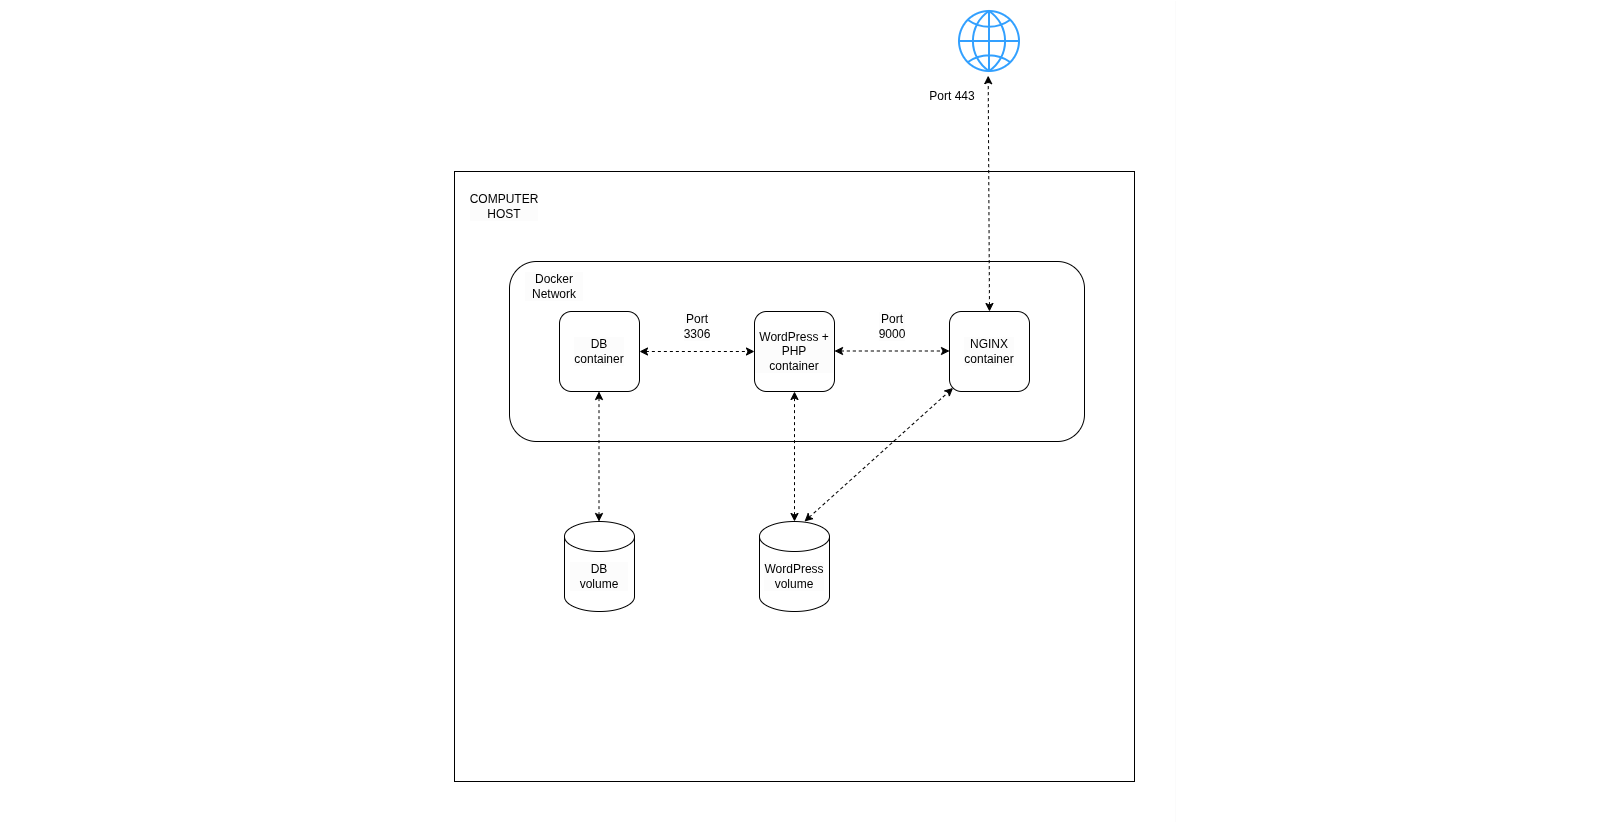
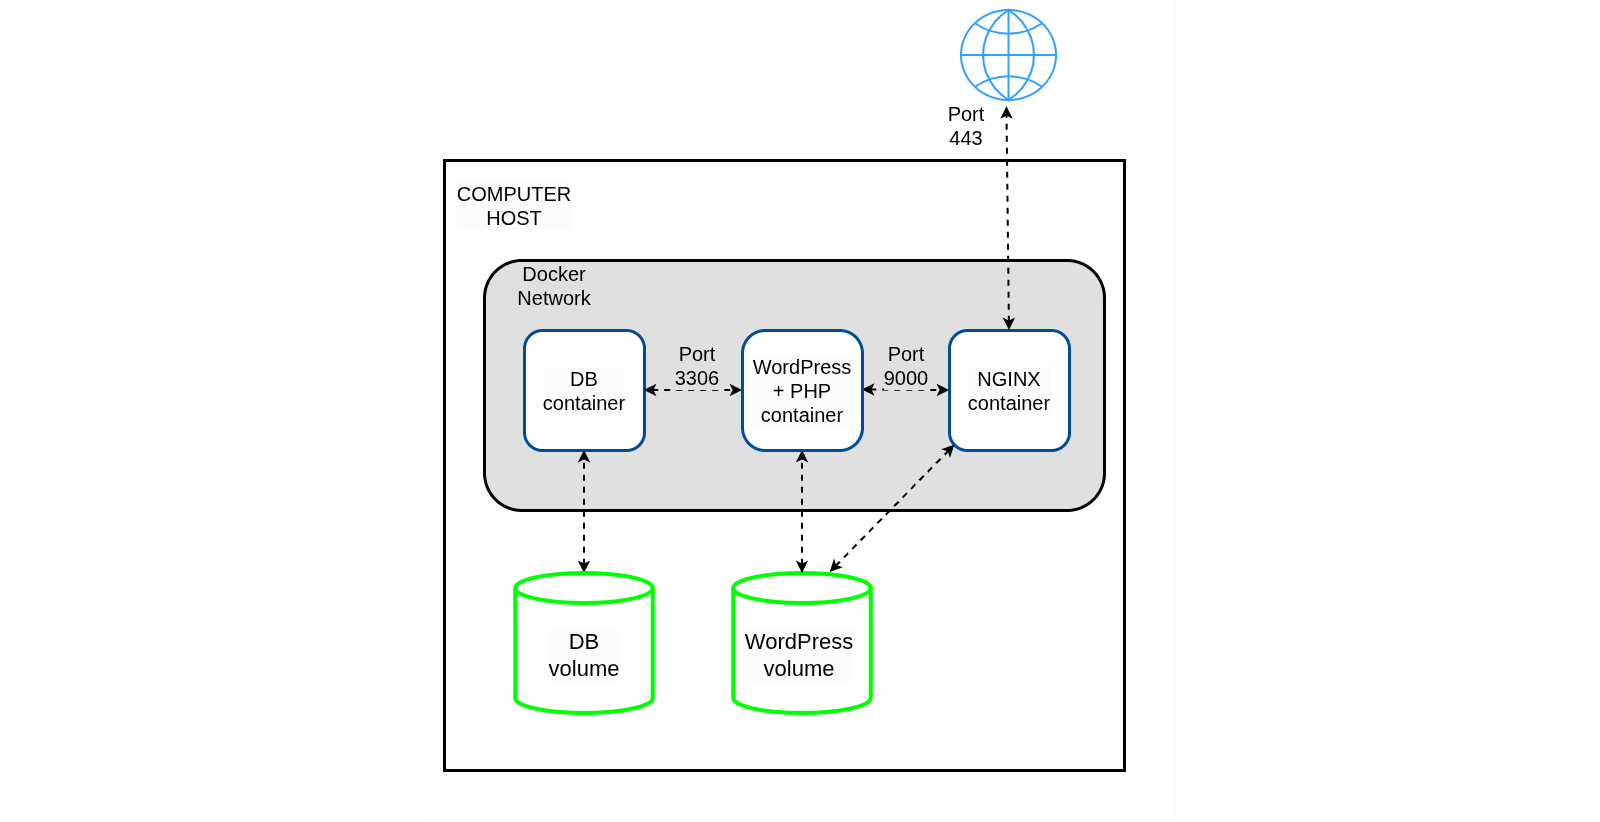
modified:   public/images/Inception.png 	new file:   public/images/Workflow.png 	modified:   src/components/layouts/Footer.astro 	modified:   src/components/layouts/Header.astro 	modified:   src/components/sections/Project.astro 	modified:   src/config/cv.json 	modified:   src/i18n/ui.ts 	modified: 

diff --git a/src/i18n/ui.ts b/src/i18n/ui.ts
@@ -6,6 +6,11 @@ const messages = {
     projects: 'Explore my projects', projectsIntro: 'Browse projects by area of interest.',
     viewProjects: 'View projects →', downloadCv: 'Download CV',
     allThemes: '← All themes', emptyProjects: 'Projects in this area will be added soon.',
+    projectObjectives: 'Objectives', projectTechnologies: 'Technologies', projectSkills: 'Areas of work',
+    projectGithub: '💻 View the source code and README on GitHub.',
+    projectFunctionalVideo: '▶ Watch the functional presentation video.',
+    projectTechnicalVideo: '▶ Watch the technical presentation video.',
+    projectDetailsMissing: 'To be specified',
     recentPosts: 'Recent posts', previous: 'Previous', next: 'Next',
     pageNotFound: 'Page Not Found', language: 'Language',
     job: 'Junior Software Developer | Full-Stack & DevOps',
@@ -34,6 +39,11 @@ const messages = {
     projects: 'Mes projets', projectsIntro: 'Découvrez mes projets par domaine.',
     viewProjects: 'Voir les projets →', downloadCv: 'Télécharger le CV',
     allThemes: '← Tous les thèmes', emptyProjects: 'Des projets seront ajoutés prochainement.',
+    projectObjectives: 'Objectifs', projectTechnologies: 'Technologies', projectSkills: 'Domaines d’intervention',
+    projectGithub: '💻 Consulter le code source et le README sur GitHub.',
+    projectFunctionalVideo: '▶ Voir la vidéo de présentation fonctionnelle.',
+    projectTechnicalVideo: '▶ Voir la vidéo de présentation technique.',
+    projectDetailsMissing: 'À préciser',
     recentPosts: 'Articles récents', previous: 'Précédent', next: 'Suivant',
     pageNotFound: 'Page introuvable', language: 'Langue',
     job: 'Développeur logiciel junior | Full-Stack & DevOps',
